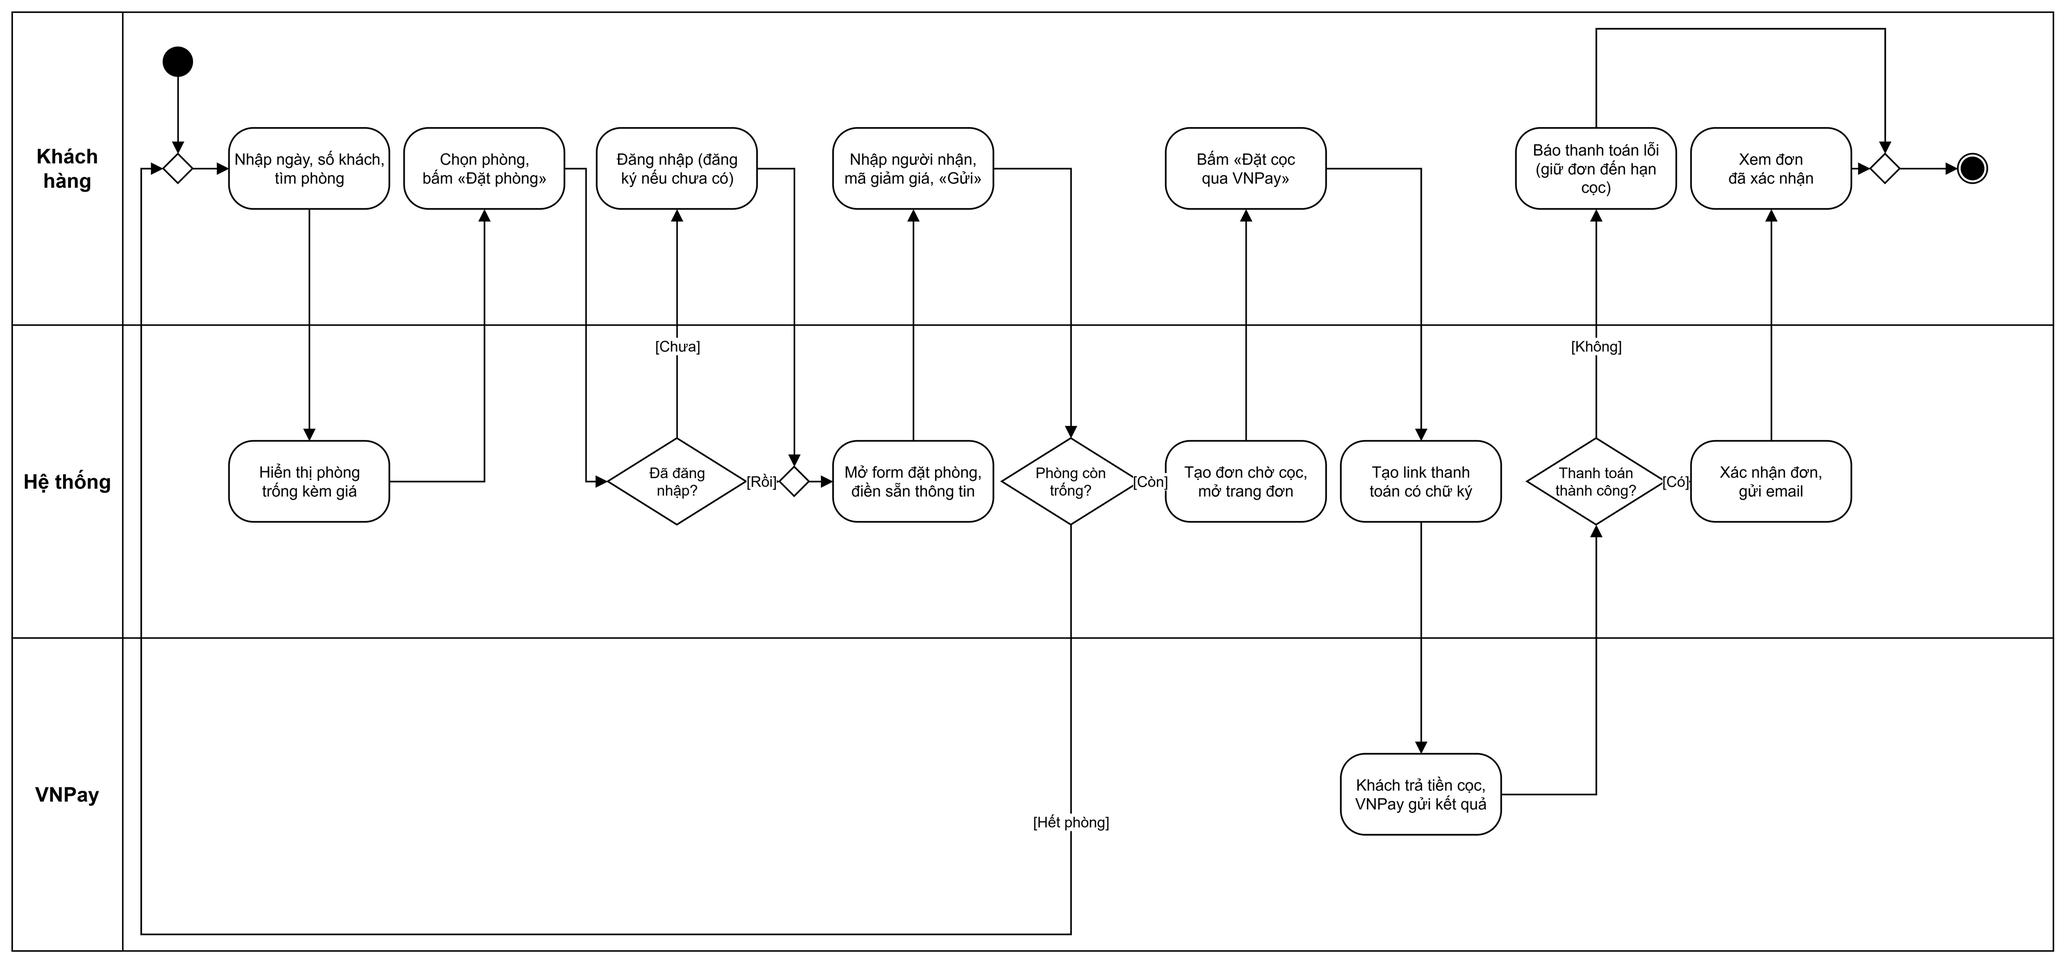
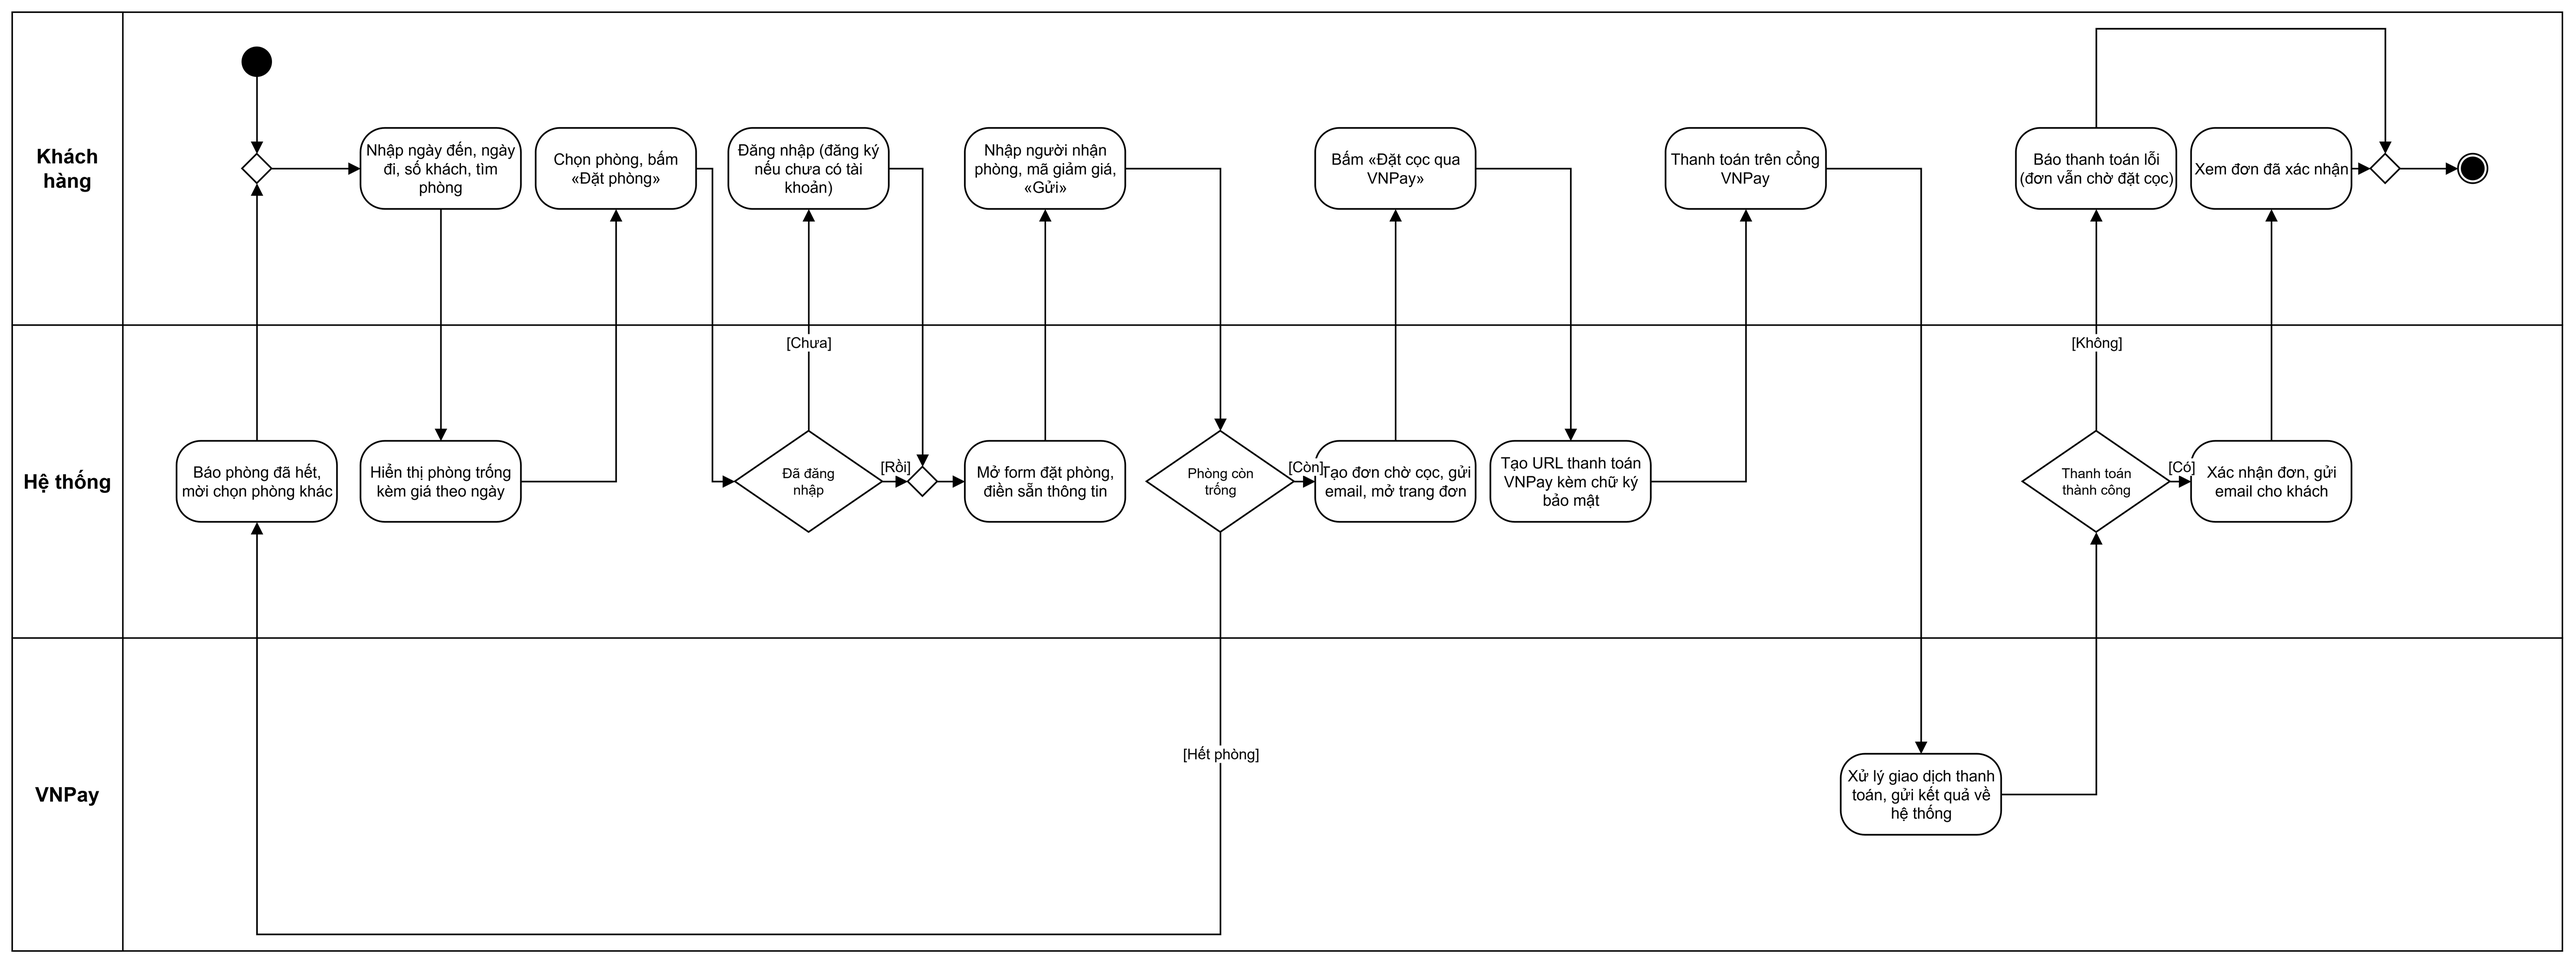
Ban slide 5 bieu do hoat dong (docs/slide): ve lai khop ban Word hien tai - fork / join, bo dau ?, cac buoc moi theo nhan xet; cap nhat TIEN-DO

diff --git a/TIEN-DO.md b/TIEN-DO.md
@@ -37,6 +37,7 @@
 ### Đợt 22 (30/10/2026) - Soát báo cáo Word, sửa chỗ lệch với code / sơ đồ mới
 | Commit | Chức năng |
 |---|---|
+| (xem `git log`) | Theo yêu cầu «làm lại bản slide cho khớp với bản word»: vẽ lại 5 hình `docs/slide/hd-*.drawio` + `.png` (làn ngang, luồng trái → phải) đúng nội dung Hình 2.8 - 2.12 hiện tại: hình thoi không «?», fork / join (thanh dọc) ở trả phòng và hủy đơn, hộp «Báo phòng đã hết», khách «Thanh toán trên cổng VNPay» / VNPay «Xử lý giao dịch», «Ghi lý do chưa đạt, báo buồng phòng làm lại», nhánh lỗi AI, CONFIRMED / CANCELLED. Chữ trong hộp để draw.io tự xuống dòng, hình thoi 160 × 110, nhãn guard trên các đoạn ngang ngắn đặt phía trên đường. Tỉ lệ 1,9 - 2,7 : 1. Script `hd_slide.py` |
 | (xem `git log`) | Chủ dự án chỉnh tay lại 5 file `hd-*.drawio` (bỏ «?» ở hình thoi, dời nhãn); theo yêu cầu «xóa nốt dấu hỏi chấm ở phần điều kiện» bỏ 4 dấu «?» còn sót (Hình 2.8: Đã đăng nhập, Phòng còn trống, Thanh toán thành công; Hình 2.9: Phòng đạt). Thay 5 ảnh trong Word **chỉ ảnh, giữ chữ** (`patch_hd.py ... --no-text`), cập nhật mục lục, xuất PDF 325 trang |
 | (xem `git log`) | Theo bản nhận xét chủ dự án dán vào («tham khảo xem»), đối chiếu code rồi sửa thẳng trên 5 file `hd-*.drawio` của chủ dự án (giữ bố cục, nhãn, độ rộng làn; script `hd_review.py`): tên hình thoi thành câu hỏi có «?» (Có phát sinh phụ phí?, Có yêu cầu kiểm tra phòng?, Số tiền cần hoàn > 0?, Hoàn tiền qua VNPay thành công?, Yêu cầu dịch vụ hợp lệ?, Chấp nhận yêu cầu dịch vụ?, Có yêu cầu phân tích bằng AI?, Nhận được kết quả AI hợp lệ?). **2.8**: hộp «Báo phòng đã hết» trước khi quay lại tìm phòng; khách «Thanh toán trên cổng VNPay» ở làn Khách hàng, làn VNPay chỉ còn «Xử lý giao dịch, gửi kết quả»; «Tạo URL thanh toán VNPay kèm chữ ký bảo mật»; lỗi thanh toán → «đơn vẫn chờ đặt cọc». **2.9**: kiểm chưa đạt → lễ tân «Ghi lý do chưa đạt, báo buồng phòng làm lại» (`HousekeepingService.fail`) rồi mới quay về dọn. **2.10**: «Tính trước số tiền dự kiến» / «Chuyển CANCELLED, chốt số tiền hoàn», «Hoàn lại điểm thưởng / số dư thẻ quà tặng (nếu có)», «Chuyển khoản thủ công». **2.11**: CONFIRMED / CANCELLED ghi rõ (code không có trạng thái REJECTED, không gửi email kết quả dịch vụ nên không thêm). **2.12**: nhánh lỗi có hộp «Báo lỗi rõ lý do (giữ báo cáo cơ bản)», làn Hệ thống nới 300 → 440. Viết lại 5 đoạn mô tả dưới hình trong `patch_hd.py`. **Đã ghi vào Word** (5 ảnh + 5 đoạn mô tả), cập nhật mục lục, xuất PDF 325 trang |
 | (xem `git log`) | Chủ dự án tự sửa 5 file `docs/thiet-ke/hd-*.drawio` (bỏ dấu «?» trong hình thoi, dời nhãn [..] ra cạnh đường). Theo yêu cầu «luật ghép nhiều trường hợp cần 1 thanh dọc hoặc ngang ... thêm vào word»: thêm **thanh fork / join** (UML: việc chạy song song; hình thoi merge vẫn giữ cho nhánh chọn một) vào **Hình 2.9** (sau «Xác nhận trả phòng (CHECKED_OUT)»: cộng điểm, gửi email ‖ phòng «Chờ dọn», báo buồng phòng → join → buồng phòng dọn) và **Hình 2.10** (sau «Chuyển đơn sang CANCELLED»: trả điểm, số dư thẻ quà tặng ‖ gửi email xác nhận hủy → join → «Đã cọc và tiền hoàn > 0»), theo `checkOut()` / `cancelBooking()`. Sửa thẳng trên file của chủ dự án (giữ mọi chỉnh tay), làn «Hệ thống» nới 300 → 380 để 2 hộp song song đứng cạnh nhau; script `docs/so-do-rut-gon-dang-lam/hd_fork.py`. Xuất lại cả 5 ảnh từ file chủ dự án, thay vào Word + sửa đoạn mô tả dưới Hình 2.9, 2.10 (`patch_hd.py`), xuất PDF 325 trang. Hình 2.8, 2.11, 2.12 không có việc song song nên không thêm. Bản slide `docs/slide/` chưa có fork / join |
